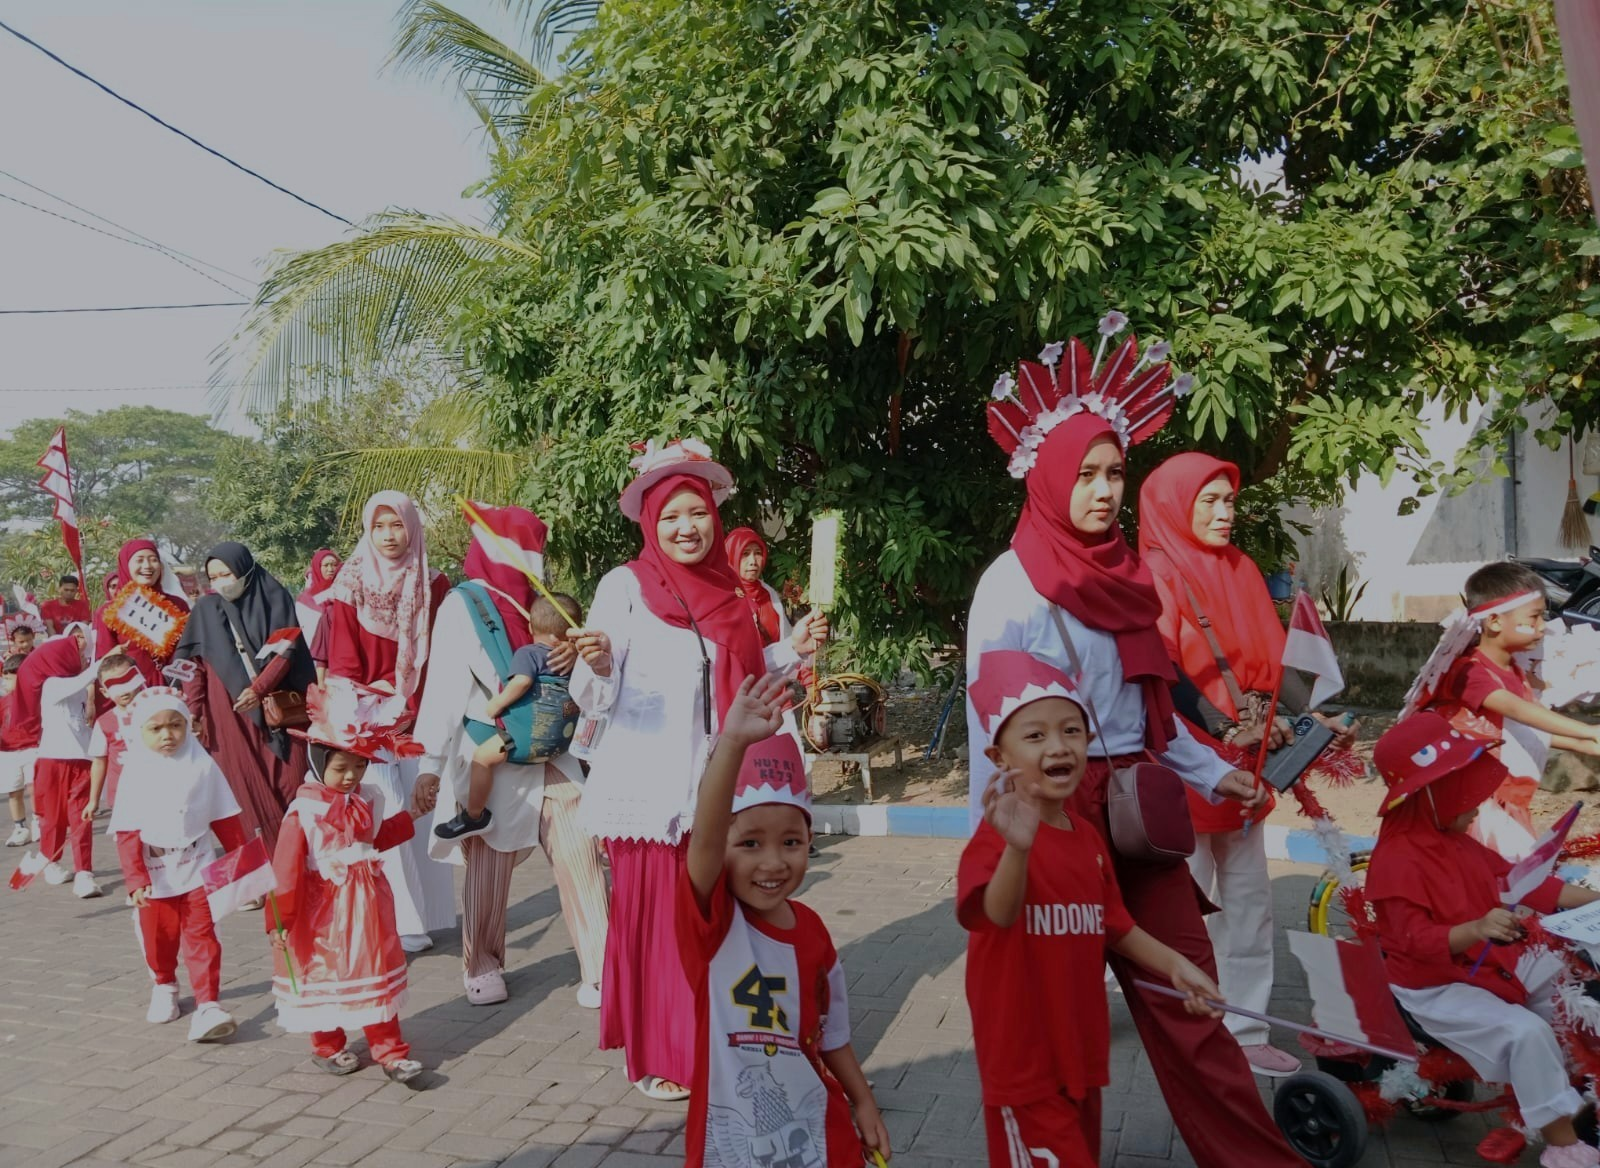
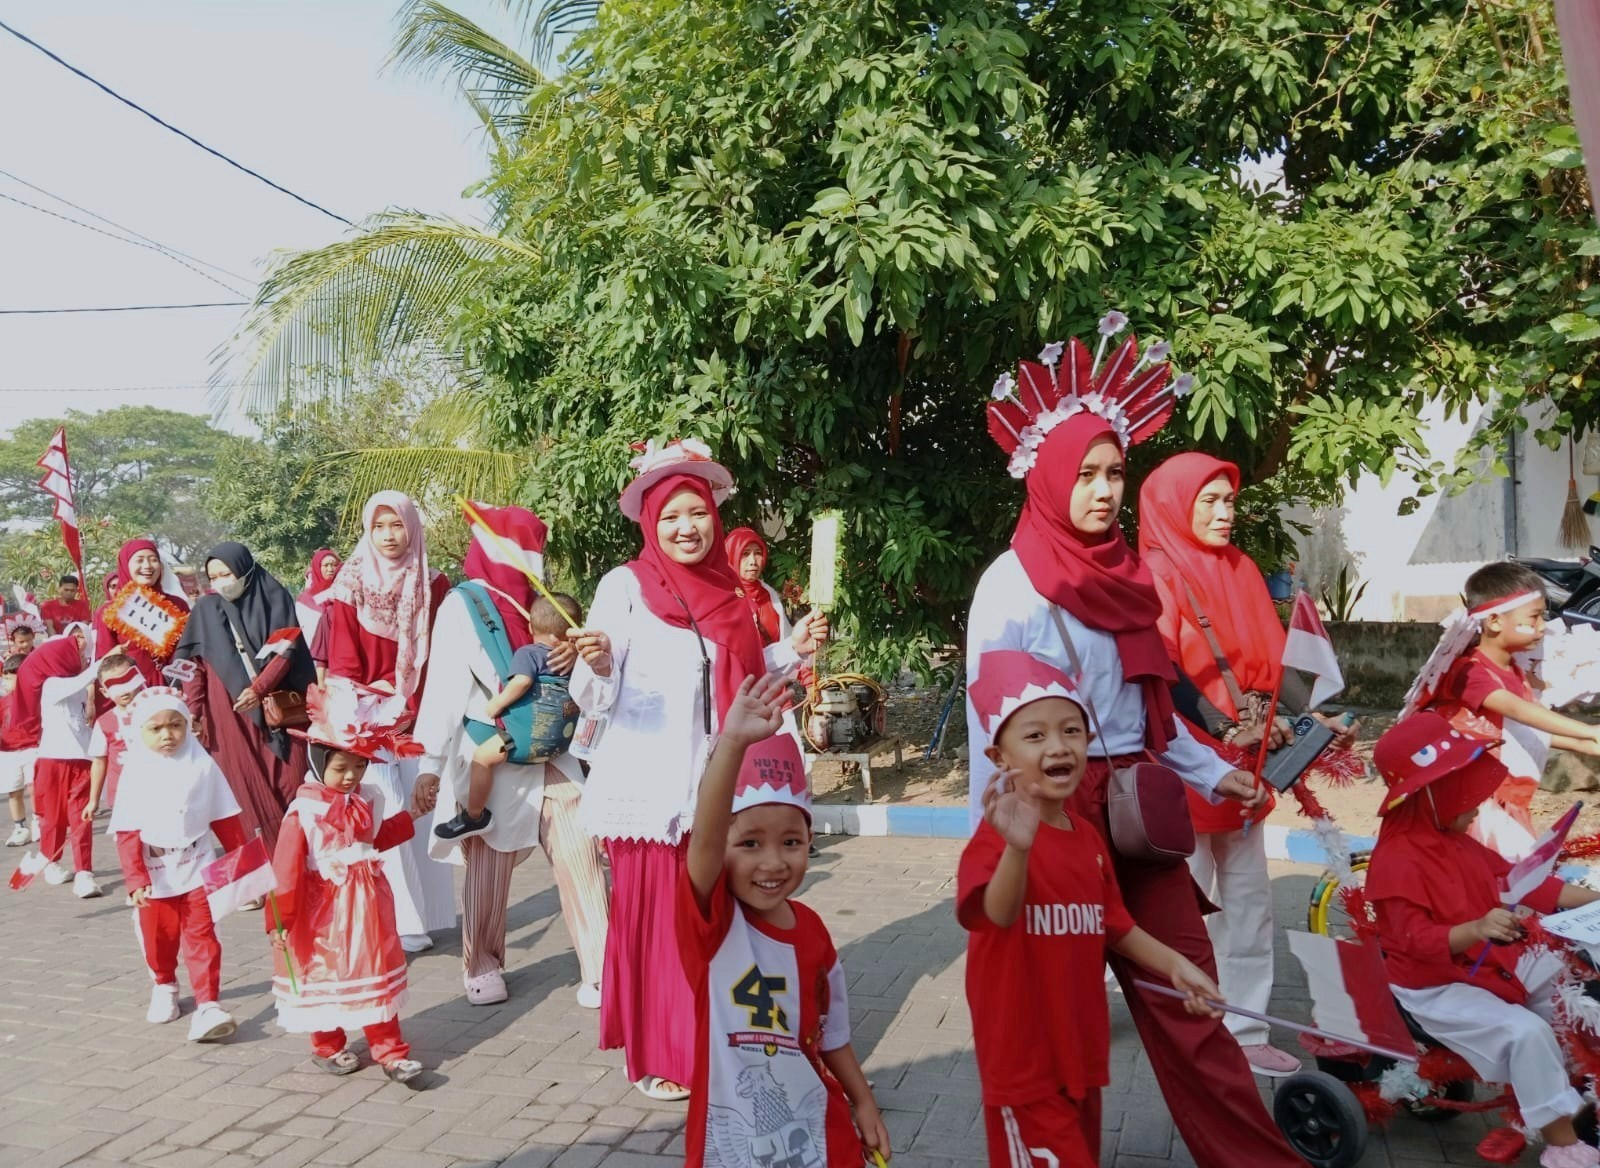
Update Cahaya Insani website

diff --git a/index.html b/index.html
@@ -22,7 +22,7 @@
 ════════════════════════════════════════ -->
 <nav>
   <a class="nav-logo" href="#home">
-   <img src="assets/logo_icon/logo.jpg" class="logo">
+   <img src="assets/logo/logo.jpg" class="logo">
     <div>
       <div class="brand">Cahaya Insani</div>
       <div class="sub">Daycare · Toddler · KB · RA Islami</div>
@@ -33,13 +33,11 @@
     <li><a href="#Beranda">Beranda</a></li>
     <li><a href="#tentang">Tentang</a></li>
     <li><a href="#program">Program</a></li>
-    <li><a href="#dakwah">Cahaya Dakwah</a></li>
     <li><a href="#galeri">Galeri</a></li>
     <li><a href="#Testimoni">Testimoni</a></li>
     <li><a href="#kontak">Kontak</a></li>
   </ul>
 
-  <button class="hamburger" onclick="toggleMenu()" aria-label="buka menu">☰</button>
 </nav>
 
 <!-- Mobile Menu -->
@@ -61,12 +59,14 @@
   <div class="hero-left">
     <div class="hero-badge">Membentuk Generasi Qurani Berakhlak Mulia</div>
     <h1>Pendidikan Islami<br><span>Sejak Dini</span></h1>
+    
     <p class="hero-desc">
-      KB/RA Cahaya Insani hadir untuk menyinari masa depan putra-putri Anda dengan layanan
+      Cahaya Insani Pre-School hadir untuk menyinari masa depan putra-putri Anda dengan layanan
       Daycare, Kelompok Bermain, dan Raudhatul Athfal yang menyenangkan, berlandaskan nilai-nilai
       Islam dan kasih sayang.
     </p>
-    <div class="hero-announce">Penerimaan Peserta Didik Baru Tahun Ajaran 2025/2026 Dibuka!</div>
+    
+    <div class="hero-announce"> Berikan buah hati anda yang terbaik, Penerimaan Peserta Didik Baru Tahun Ajaran Dibuka!</div>
     <div class="hero-buttons">
       <a class="btn-primary btn-daftar" href="#daftar">Daftar Sekarang!</a>
       <a class="btn-hubungi" href="https://wa.me/6282132019290" target="_blank"> <i class="fa-brands fa-whatsapp"></i> Hubungi Kami</a>
@@ -77,6 +77,12 @@
     <div class="hero-img-wrap js-slider" data-interval="3500">
       <div class="slider-track">
         <div class="slider-slide"><img class="hero-img" src="assets/Picture/ChatGPT Image Jul 25, 2026, 07_33_43 AM.png" alt="Foto 1"></div>
+      </div>
+      <div class="photo-caption">
+        <div class="caption-text">
+          <span class="caption-name">Ibu Ninik Hariyani, S.Pd</span>
+          <span class="caption-role">Kepala Sekolah Cahaya Insani Pre-School</span>
+        </div>
       </div>
     </div>
 
@@ -109,40 +115,48 @@
     berfokus pada pembentukan karakter, akhlak, dan kemandirian anak.
   </p>
 
-  <div class="vm-cards-grid">
-    <div class="vm-card">
-      <div class="vm-card-header">
+<div class="vm-cards-grid">
+    <div class="vm-card" data-open="true">
+      <button class="vm-card-header" type="button" aria-expanded="true">
         <div class="vm-icon ic-visi">🎯</div>
         <h3>Visi</h3>
+        <span class="vm-toggle">▶</span>
+      </button>
+      <div class="vm-card-body">
+        <p>"Membentuk generasi yang berakhlakul karimah, bertaqwa kepada Allah SWT., dan mengikuti ajaran Rasulullah — membentuk pribadi yang bertanggung jawab, mandiri, kreatif, dan inovatif."</p>
       </div>
-      <p>"Membentuk generasi yang berakhlakul karimah, bertaqwa kepada Allah SWT., dan mengikuti ajaran Rasulullah — membentuk pribadi yang bertanggung jawab, mandiri, kreatif, dan inovatif."
-</p>
     </div>
 
-    <div class="vm-card">
-      <div class="vm-card-header">
+    <div class="vm-card" data-open="true">
+      <button class="vm-card-header" type="button" aria-expanded="true">
         <div class="vm-icon ic-misi">📌</div>
         <h3>Misi</h3>
+        <span class="vm-toggle">▶</span>
+      </button>
+      <div class="vm-card-body">
+        <ul>
+          <li>Membangun karakter berakhlaq mulia, menanamkan pembiasaan perilaku hidup bersih, sehat, mandiri dan berakhlaq mulia.</li>
+          <li>Membangun pembiasaan kepribadian yang bertanggung jawab dan berprestasi.</li>
+          <li>Memfasilitasi kegiatan belajar yang aktif menyenangkan sesuai dengan tahapan perkembangan, minat dan potensi anak.</li>
+          <li>Membangun ekosistem pendidikan.</li>
+        </ul>
       </div>
-      <ul>
-        <li>Membangun karakter berakhlaq mulia, menanamkan pembiasaan perilaku hidup bersih, sehat, mandiri dan berakhlaq mulia.</li>
-        <li>Membangun pembiasaan kepribadian yang bertanggung jawab dan berprestasi.</li>
-        <li>Memfasilitasi kegiatan belajar yang aktif menyenangkan sesuai dengan tahapan perkembangan, minat dan potensi anak.</li>
-        <li>Membangun ekosistem pendidikan.</li>
-      </ul>
     </div>
 
-    <div class="vm-card">
-      <div class="vm-card-header">
+    <div class="vm-card" data-open="true">
+      <button class="vm-card-header" type="button" aria-expanded="true">
         <div class="vm-icon ic-tujuan">🏆</div>
         <h3>Tujuan</h3>
+        <span class="vm-toggle">▶</span>
+      </button>
+      <div class="vm-card-body">
+        <ul>
+          <li>Mewujudkan anak yang sehat, jujur, senang dan mandiri.</li>
+          <li>Mewujudkan anak yang peduli terhadap diri sendiri, orang lain dan lingkungan sekitarnya.</li>
+          <li>Menjadikan anak beragama sejak dini.</li>
+          <li>Menciptakan iklim belajar yang kondusif bagi penyelenggara pendidikan, perawatan, pengasuhan dan perlindungan anak.</li>
+        </ul>
       </div>
-      <ul>
-        <li>Mewujudkan anak yang sehat, jujur, senang dan mandiri.</li>
-        <li>Mewujudkan anak yang peduli terhadap diri sendiri, orang lain dan lingkungan sekitarnya.</li>
-        <li>Menjadikan anak beragama sejak dini.</li>
-        <li>Menciptakan iklim belajar yang kondusif bagi penyelenggara pendidikan, perawatan, pengasuhan dan perlindungan anak.</li>
-      </ul>
     </div>
   </div>
 </section>
@@ -155,7 +169,7 @@
   <div class="section-label">📚 Program Kami</div>
   <h2 class="section-title">Program <span>Terbaik</span> untuk<br>Buah Hati Anda</h2>
   <p class="section-sub">
-    Kami menyediakan tiga program utama yang dirancang sesuai tahap perkembangan anak,
+    Kami menyediakan empat program utama yang dirancang sesuai tahap perkembangan anak,
     dengan pendekatan Islami yang hangat dan menyenangkan.
   </p>
 
@@ -210,35 +224,35 @@
         <div class="slider-slide"><img src="assets/Picture/IMG-20251022-WA0019.jpg" alt="Melukis & Mewarnai 1"></div>
         <div class="slider-slide"><img src="assets/Picture/WhatsApp Image 2026-07-21 at 2.37.49 PM.jpeg" alt="Melukis & Mewarnai 2"></div>
       </div>
-      <div class="gal-label">Event Menyenangkan</div>
+      <div class="gal-label">Event Menyenangkan 🎉</div>
     </div>
     <div class="gal-item js-slider">
       <div class="slider-track">
         <div class="slider-slide"><img src="assets/Picture/WhatsApp Image 2026-07-21 at 2.11.18 PM.jpeg" alt="Belajar Al-Quran 1"></div>
         <div class="slider-slide"><img src="assets/Picture/IMG_20260730_075207_392.jpg" alt="Belajar Al-Quran 2"></div>
       </div>
-      <div class="gal-label">Belajar Al-Quran</div>
+      <div class="gal-label">Belajar Al-Quran 📖</div>
     </div>
     <div class="gal-item js-slider">
       <div class="slider-track">
         <div class="slider-slide"><img src="assets/Picture/WhatsApp Image 2026-07-24 at 12.34.11 PM.jpeg" alt="Musik & Bernyanyi 1"></div>
         <div class="slider-slide"><img src="assets/Picture/WhatsApp Image 2026-07-24 at 12.34.05 PM.jpeg" alt="Musik & Bernyanyi 2"></div>
       </div>
-      <div class="gal-label">Melukis &amp; Mewarnai</div>
+      <div class="gal-label">Melukis &amp; Mewarnai 🎨</div>
     </div>
     <div class="gal-item js-slider">
       <div class="slider-track">
         <div class="slider-slide"><img src="assets/Picture/WhatsApp Image 2026-07-21 at 2.37.47 PM.jpeg" alt="Olahraga Seru 1"></div>
         <div class="slider-slide"><img src="assets/Picture/IMG_20260522_095808_646.jpg" alt="Olahraga Seru 2"></div>
       </div>
-      <div class="gal-label">Olahraga Seru</div>
+      <div class="gal-label">Olahraga Seru 🏃🏼♂➡</div>
     </div>
     <div class="gal-item js-slider">
       <div class="slider-track">
         <div class="slider-slide"><img src="assets/Picture/WhatsApp Image 2026-07-21 at 2.37.48 PM.jpeg"></div>
-        <div class="slider-slide"><img src="assets/logo_icon/logo.jpg" alt="Belajar Alam 2"></div>
+        <div class="slider-slide"><img src="assets/logo/logo.jpg" alt="Belajar Alam 2"></div>
       </div>
-      <div class="gal-label">Belajar Alam</div>
+      <div class="gal-label">Belajar Alam 🍃</div>
     </div>
   </div>
 </section>
@@ -314,11 +328,11 @@
     <div class="footer-col" id="kontak">
       <h4>Kontak</h4>
       <ul class="footer-kontak">
-        <li><span class="ico">📍</span> Perum Surya Asri 2 blok D5 no23-24 Jumputrejo, Sukodono, Sidoarjo</li>
-        <li><span class="ico">📱</span> +62 821-3201-9290</li>
-        <li><span class="ico">📧</span> info@cahayainsani.sch.id</li>
-        <li><span class="ico">🕐</span> Senin – Jumat, 07.00–11.00 WIB</li>
-        <li><span class="ico">📘</span> @cahayainsani.official</li>
+        <li><i class="ico fa-solid fa-location-dot"></i> Perum Surya Asri 2 blok D5 no23-24 Jumputrejo, Sukodono, Sidoarjo</li>
+        <li><i class="ico fa-solid fa-envelope"></i> Cahaya_Insani@gmail.com</li>
+        <li><i class="ico fa-brands fa-tiktok"></i> @Cahaya_Insani</li>
+        <li><i class="ico fa-brands fa-instagram"></i> Cahaya_Insani_PreSchool</li>
+        <li><i class="ico fa-brands fa-whatsapp"></i> +62 821-3201-9290</li>
       </ul>
     </div>
     <div class="footer-map">
@@ -333,7 +347,7 @@
     </div>
   </div>
   <div class="footer-bottom">
-    <p>© 2025 KB/RA Cahaya Insani. Semua hak dilindungi.</p>
+    <p>©Cahaya Insani Pre-School. Semua hak dilindungi.</p>
   </div>
 </footer>
 

diff --git a/style.css b/style.css
@@ -304,7 +304,6 @@ nav {
   align-items: center;
   gap: 10px;
 
-  margin-left: 20px;
 
 }
 
@@ -338,6 +337,36 @@ nav {
   height: 100%;
   object-fit: cover;
   display: block;
+}
+
+/* Caption Ibu Kepsek */
+.photo-caption {
+  position: absolute;
+  bottom: 0;
+  left: 0;
+  right: 0;
+  padding: 60px 24px 24px;
+  background: linear-gradient(to top, rgba(0, 0, 0, 0.75)0%, rgba(0, 0, 0, 0.4)50%, rgba(0, 0, 0, 0)100%);
+  color: whitesmoke;
+  z-index: 2;
+}
+
+.caption-text {
+  border-left: 3.5px solid #e8f5e9;
+  padding-left: 12px;
+}
+
+.caption-name {
+  display: block;
+  font-family: 'Fredoka One', cursive;
+  font-size: 14.7px;
+}
+
+.caption-role {
+  display: block;
+  font-size: 14px;
+  font-weight: 400;
+  opacity: 0.95;
 }
 
 /* ── GENERIC SLIDER (dipakai oleh hero & galeri) ── */
@@ -665,6 +694,54 @@ section {
   font-size: 1.2rem;
   color: var(--green);
   margin: 0;
+}
+
+.vm-card-header {
+  display: flex;
+  align-items: center;
+  gap: 12px;
+  margin-bottom: 0;
+  width: 100%;
+  background: none;
+  border: none;
+  cursor: pointer;
+  font-family: inherit;
+  text-align: left;
+  padding: 0;
+}
+
+.vm-card-header h3 {
+  flex: 1;
+}
+
+.vm-toggle {
+  font-size: 0.8rem;
+  color: var(--green);
+  transition: transform 0.25s ease;
+  flex-shrink: 0;
+}
+
+.vm-card[data-open="true"] .vm-toggle {
+  transform: rotate(90deg);
+}
+
+.vm-card-body {
+  display: grid;
+  grid-template-rows: 0fr;
+  opacity: 0;
+  transition: grid-template-rows 0.3s ease, opacity 0.25s ease, margin-top 0.3s ease;
+  margin-top: 0;
+}
+
+.vm-card-body > * {
+  overflow: hidden;
+  min-height: 0;
+}
+
+.vm-card[data-open="true"] .vm-card-body {
+  grid-template-rows: 1fr;
+  opacity: 1;
+  margin-top: 12px;
 }
 
 .vm-icon {
@@ -1220,28 +1297,34 @@ footer::before {
     font-size: 2rem;
   }
 
+.hero-badge{
+    margin-top: 15px;
+
+    font-size: 0.75rem;
+    padding: 5px 12px;
+}
+  
   .hero-desc {
     font-size: 0.93rem;
   }
 
   .hero-buttons {
-    flex-direction: column;
+    justify-content: center;
+    align-items: center;
+    flex-wrap: nowrap;
     gap: 10px;
   }
 
-  .btn-primary,
-  .btn-outline {
-    width: 100%;
+  .btn-daftar,
+  .btn-hubungi {
+    width: auto;
     text-align: center;
     padding: 14px 20px;
+    font-size: 0.85rem;
   }
 
   .hero-img-wrap {
     max-width: 260px;
-  }
-
-  .stat-bubble {
-    display: none;
   }
 
   /* Stats strip */

diff --git a/script.js b/script.js
@@ -268,3 +268,13 @@ if (gallerySliders.length) {
     gallerySliders.forEach(slider => slider.goTo(slider.index + 1));
   }, GALLERY_SLIDE_INTERVAL);
 }
+
+// ── DISCLOSURE TRIANGLE: Visi / Misi / Tujuan ──
+document.querySelectorAll('.vm-card').forEach(card => {
+  const btn = card.querySelector('.vm-card-header');
+  btn.addEventListener('click', () => {
+    const isOpen = card.getAttribute('data-open') === 'true';
+    card.setAttribute('data-open', String(!isOpen));
+    btn.setAttribute('aria-expanded', String(!isOpen));
+  });
+});
